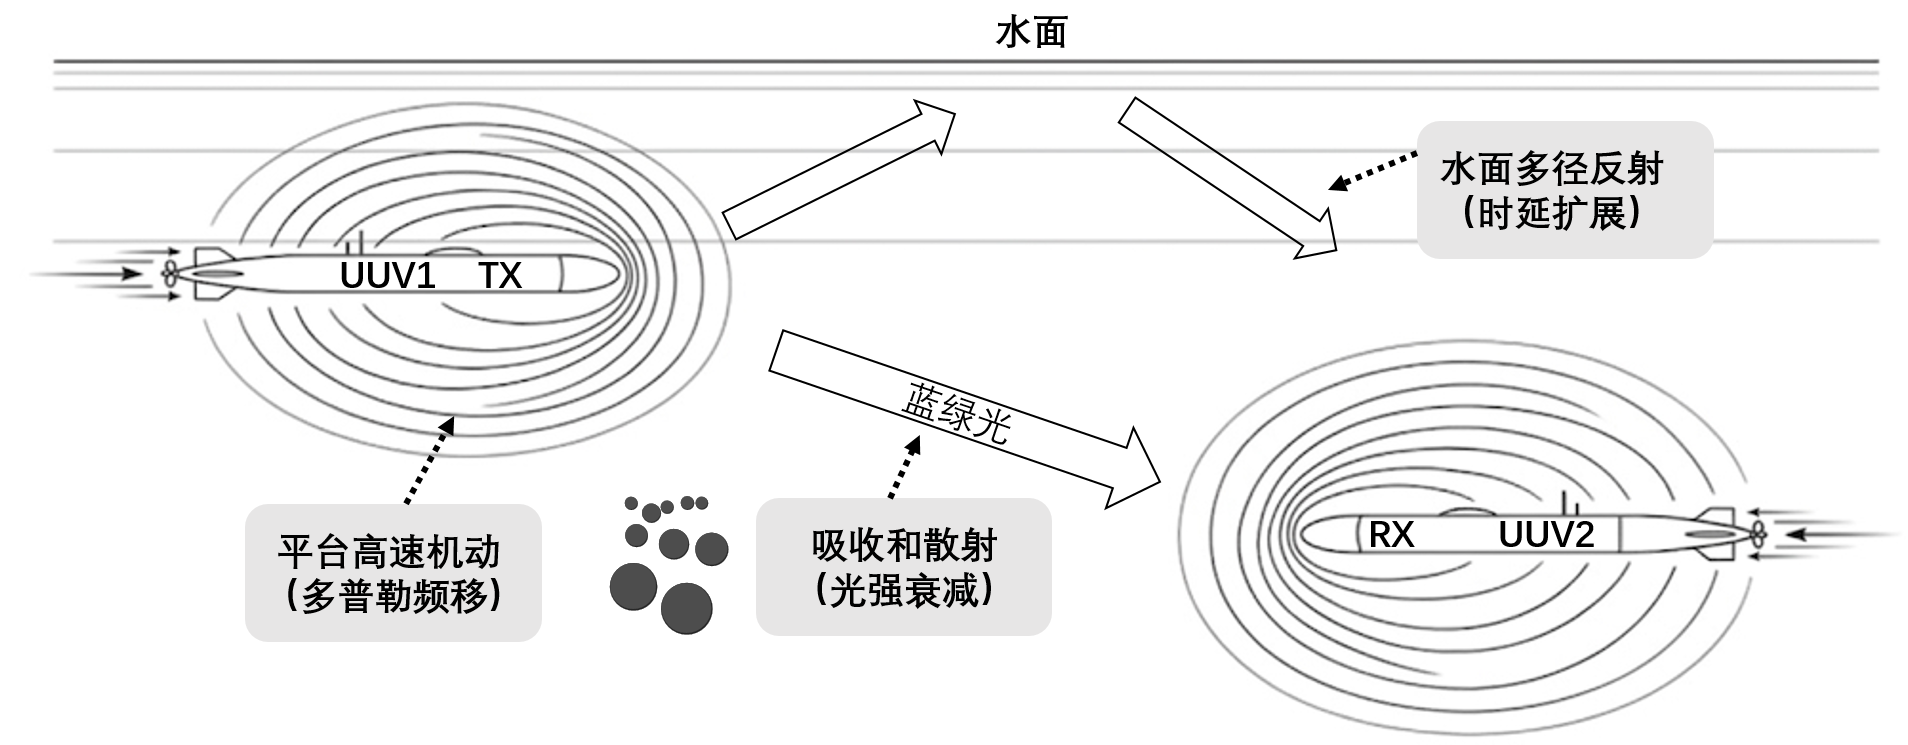
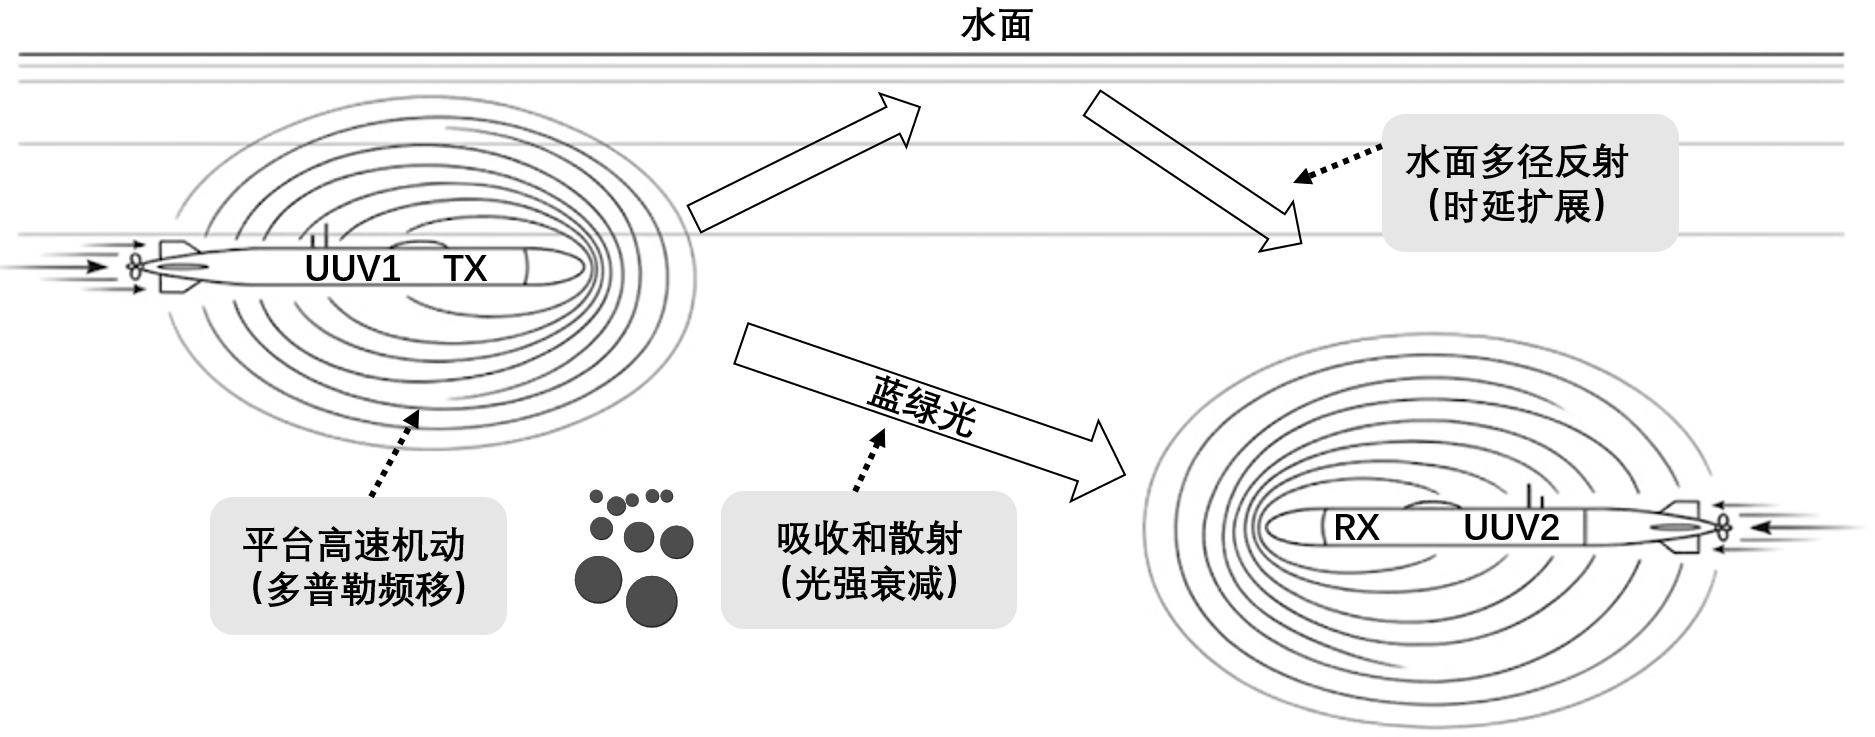
edit_abstract

diff --git a/chapters/abstract.tex b/chapters/abstract.tex
@@ -4,24 +4,25 @@
 %%
 
 \begin{abstract}
-  为满足海洋信息网络和空天地海一体化体系中日益增长的水下信息传输需求，水下无线光通信因其高带宽、低时延等优势，已成为近距离高速水下链路的重要研究方向。然而，不同水下传播场景下的主导失真机制差异显著：在低动态浑浊环境中，多重散射和非视距传播容易引起时延扩展与频率选择性衰落；在高动态移动环境中，平台相对运动又会进一步带来多普勒扩展以及相干接收条件下的相位噪声问题。针对传统正交频分复用（Orthogonal Frequency Division Multiplexing，OFDM）体制在上述场景中适应性不足的问题，本文围绕水下无线光通信中的仿射频分复用（Affine Frequency Division Multiplexing，AFDM）技术开展研究，重点面向低动态浑浊多径场景和高动态移动场景设计两类具有针对性的传输方案。
+  为满足海洋信息网络和空天地海一体化体系中日益增长的水下信息传输需求，本文围绕水下无线光通信在低动态浑浊多径场景和高动态移动场景中的可靠传输问题开展研究。针对不同传播条件下主导失真机制差异显著、传统正交频分复用方案适应性不足的问题，本文以仿射频分复用为统一技术主线，对波形构造、参数设计和检测方法进行了系统研究。本文主要工作与结果如下：
 
-  针对低动态水下场景中由多重散射引起的时延扩展与频率选择性衰落问题，本文提出一种面向强度调制/直接检测（Intensity Modulation/Direct Detection，IM-DD）架构的非对称限幅光仿射频分复用（Asymmetrically Clipped Optical AFDM，ACO-AFDM）传输方案。该方案将 ACO 机制与 AFDM 波形相结合，通过奇数子载波映射、厄米特对称构造与非对称限幅，在满足非负实信号约束的基础上增强系统对多径传播的适应能力；同时，分析了余弦型离散仿射傅里叶变换（Discrete Affine Fourier Transform，DAFT）核下的参数设计条件，给出了兼顾逆变换稳定性与多径分离能力的啁啾参数设计准则。仿真结果表明，所提方案在低动态多径条件下相较传统光正交频分复用方案具有更好的误码率性能和多径鲁棒性。
+  （1）针对低动态浑浊多径场景中传统光正交频分复用在非负实信号约束下对时延扩展和频率选择性衰落适应性不足的问题，提出面向强度调制直接检测架构的非对称限幅光仿射频分复用方案。该方案改善了传统方案对多径传播和深衰落位置的敏感性，提升了误码率性能与多径鲁棒性；仿真结果表明，在双径条件下相较非对称限幅光正交频分复用约获得 2 分贝增益，在路径数由 2 增至 10 时性能退化更缓。
 
-  针对高动态水下场景中相对运动引起的多普勒扩展以及相干架构下的相位噪声影响，本文提出一种面向相干接收的 AFDM 索引调制传输方案。该方案建立了包含多径、多普勒频移和维纳相位噪声的系统模型，推导了离散仿射傅里叶变换域的等效输入输出关系，并进一步利用 AFDM-IM 未激活位置所形成的静默结构作为隐式参考，构造基于泄露能量最小化与稀疏度量驱动的盲搜方法，在无额外导频开销下精准补偿主导的残余载波频偏，同时对维纳相位噪声实现鲁棒容忍。仿真结果表明，所提方案在高动态条件下较基准 OFDM-IM 方案具有更优的误码率性能，并在一定激光器线宽范围内表现出较好的相位噪声鲁棒性。
+  （2）针对高动态移动场景中多普勒扩展和相位噪声共同作用下传统方案频偏失配严重的问题，提出面向相干接收的仿射频分复用索引调制方案，并利用静默位置构造残余频偏补偿方法。该方法改善了高动态条件下主导频偏难以低开销补偿的问题，提升了系统在多普勒扩展和激光器线宽扰动下的检测可靠性；仿真结果表明，所提方案在归一化多普勒频移 0 至 0.20 的范围内保持可靠通信，并在高动态条件下优于传统索引调制方案。
 
-  综上，本文围绕低动态与高动态两类典型水下场景，研究了 AFDM 在水下无线光通信中的波形构造、参数设计与检测方法，说明了 AFDM 面向不同动态条件进行场景化适配的可行性，可为高可靠水下光通信系统设计提供理论参考。
-\end{abstract} 
+  （3）与传统显式导频补偿方案相比，所提方法无需额外导频开销，改善了有效频谱利用率和能量分配效率，避免了 20\% 导频占用带来的约 0.97 分贝等效信噪比损失。
+  总体而言，本文形成了面向低动态与高动态两类典型场景的统一设计主线，可为高可靠水下光通信系统设计提供理论参考。 
+\end{abstract}
 
 % 如需手动控制换行连字符位置，可写 aa\-bb，详见
 % https://bithesis.bitnp.net/faq/hyphen.html
 
 \begin{abstractEn}
-  To meet the demand for underwater information transmission in marine information networks and space-air-ground-sea integrated systems, underwater wireless optical communication (UWOC) has become an important solution for short-range and high-rate underwater links due to its high bandwidth and low latency. However, the dominant impairment mechanisms vary significantly across different underwater propagation scenarios. In low-dynamic turbid environments, multiple scattering and non-line-of-sight propagation mainly cause delay spread and frequency-selective fading. In high-dynamic mobile environments, platform motion further introduces Doppler spread and phase noise under coherent reception. To address the limited adaptability of conventional orthogonal frequency division multiplexing (OFDM) in these scenarios, this thesis investigates affine frequency division multiplexing (AFDM) for UWOC and develops two dedicated transmission schemes for representative low-dynamic turbid multipath scenarios and high-dynamic mobile scenarios.
+  To meet the growing demand for underwater information transmission in marine information networks and integrated space-air-ground-sea systems, this thesis studies reliable transmission for low-dynamic turbid multipath scenarios and high-dynamic mobile scenarios in underwater optical communication. To address the limited adaptability of conventional orthogonal frequency division multiplexing under different dominant impairments, affine frequency division multiplexing is adopted as the unified technical line, and waveform construction, parameter design, and detection methods are investigated systematically. The main improvements and conclusions are as follows:
 
-  For low-dynamic underwater scenarios affected by delay spread and frequency-selective fading caused by multiple scattering, an asymmetrically clipped optical affine frequency division multiplexing (ACO-AFDM) scheme is proposed for intensity modulation/direct detection (IM-DD) systems. By combining the ACO mechanism with the AFDM waveform through odd-subcarrier mapping, Hermitian symmetry, and asymmetric clipping, the proposed scheme improves multipath adaptability while satisfying the nonnegative real-signal constraint. In addition, the parameter design conditions under the cosine-type DAFT kernel are analyzed. A chirp-parameter design criterion is then derived to balance inverse-transform stability and multipath separation capability. Simulation results show that the proposed scheme achieves better bit-error-rate performance and stronger multipath robustness than conventional optical OFDM schemes in low-dynamic multipath conditions.
+  (1) For low-dynamic turbid multipath scenarios, an asymmetrically clipped optical affine frequency division multiplexing scheme is proposed for intensity-modulation direct-detection links. The proposed scheme reduces the sensitivity of conventional optical orthogonal frequency division multiplexing to delay spread, frequency-selective fading, and the nonnegative real-signal constraint, thereby improving bit-error-rate performance and multipath robustness. Simulation results show a gain of about 2 decibels over asymmetrically clipped optical orthogonal frequency division multiplexing under the two-path condition, with slower performance degradation when the number of paths increases from 2 to 10.
 
-  For high-dynamic underwater scenarios affected by Doppler spread due to relative motion and phase noise in coherent architectures, a coherent AFDM with index modulation (AFDM-IM) scheme is proposed. A system model incorporating multipath, Doppler shifts, and Wiener phase noise is established, and the equivalent input--output relationship in the discrete affine Fourier transform domain is derived. By exploiting the silent structure formed by inactive AFDM-IM positions as an implicit reference, a blind-search method driven by leakage-energy minimization and sparsity metrics is developed to accurately compensate the dominant residual carrier frequency offset without any additional pilot overhead, while maintaining robust tolerance to Wiener phase noise. Simulation results show that the proposed scheme outperforms the benchmark OFDM-IM scheme in terms of bit error rate under high-dynamic conditions and exhibits good phase-noise robustness within a practical range of laser linewidths.
+  (2) For high-dynamic mobile scenarios, a coherent transmission scheme based on affine frequency division multiplexing and index modulation is proposed, together with a residual carrier-frequency-offset compensation method constructed from silent positions. The proposed method alleviates severe frequency-offset mismatch under joint Doppler spread and phase-noise disturbances, and improves detection reliability under Doppler variation and laser-linewidth perturbations. Simulation results show reliable communication over normalized Doppler shifts from 0 to 0.20, while achieving better performance than the conventional index-modulation benchmark in high-dynamic conditions.
 
-  In summary, this thesis studies waveform construction, parameter design, and detection methods of AFDM for UWOC from the perspectives of low-dynamic and high-dynamic representative scenarios. The results demonstrate the feasibility of scenario-oriented AFDM adaptation under different mobility conditions and provide theoretical support for the design of reliable underwater optical communication systems.
+  (3) Compared with the conventional pilot-assisted compensation strategy, the proposed method requires no additional pilot overhead, improves effective spectral utilization and power allocation efficiency, and avoids the equivalent signal-to-noise-ratio loss of about 0.97 decibels caused by 20\% pilot occupation. Overall, this thesis establishes a unified scenario-oriented design route for representative low-dynamic and high-dynamic underwater links, and provides theoretical support for reliable underwater optical communication system design.
 \end{abstractEn}

diff --git a/chapters/chapter1.tex b/chapters/chapter1.tex
@@ -10,10 +10,13 @@
 
 为更直观地比较不同水下通信手段的结构性差异，表~\ref{tab:underwater_comm_comparison} 给出了主流水下通信技术在传播介质、速率潜力、时延特征及适用场景等方面的横向对比。该表所体现的结论是：水声、射频与水下光并非简单的替代关系，而是面向不同距离尺度、实时性需求和部署条件的互补性技术路线。
 
-\begin{table}[htbp] 
+\begin{table}[htbp]
     \centering
     \caption{主流水下通信技术特性横向对比表}
     \label{tab:underwater_comm_comparison}
+    \footnotesize
+    \setlength{\tabcolsep}{2.6pt}
+    \resizebox{\textwidth}{!}{%
     \begin{tabular}{p{1.6cm}p{1.7cm}p{1.6cm}p{1.7cm}p{1.6cm}p{2.0cm}p{2.0cm}p{1.9cm}}
         \toprule
         通信方式 & 主要载体/波段 & 典型作用距离 & 可用带宽/速率水平 & 时延特性 & 主要优势 & 主要局限 & 适用场景 \\
@@ -22,7 +25,8 @@
         射频通信 & 电磁波（低频/超低频） & 极短距离 & 带宽有限，速率受限 & 时延较低 & 体制成熟、接口方便 & 海水中衰减极强，常规场景覆盖不足 & 特殊浅水、极短距应急链路 \\
         水下无线光通信 & 蓝绿光窗口 & 短距离至中短距离 & 带宽高，速率潜力大 & 传播时延低 & 低时延、高速率、低截获概率 & 对准敏感，受散射/湍流/浑浊度影响明显 & 近距离高速互联、视频回传、局部宽带组网 \\
         \bottomrule
-    \end{tabular}
+    \end{tabular}%
+    }
 \end{table}
 
 需要指出的是，UWOC 的优势并不意味着其传播环境简单。光波在水中传播时会同时受到吸收、散射、湍流、气泡扰动、环境光噪声以及平台姿态变化的影响，不同机理在不同水体类型、链路距离和收发结构下的主导程度并不相同\cite{kaushalUnderwaterOpticalWireless2016a, zengSurveyUnderwaterOptical2017, zayed2026comprehensive}。从系统设计角度看，真正困难的部分并不是单纯追求更高标称速率，而是在复杂损伤机制下构建与场景特征匹配的调制、检测和补偿方法。若忽略主导失真机制随场景变化而切换的事实，就容易把问题抽象得过于理想化，进而削弱方案的物理针对性。
@@ -96,6 +100,9 @@ AFDM 的潜力并不局限于高动态场景。虽然其最初更多被用于处
     \centering
     \caption{典型水下多载波波形技术演进与关键指标对比表}
     \label{tab:waveform_evolution_comparison}
+    \footnotesize
+    \setlength{\tabcolsep}{2.5pt}
+    \resizebox{\textwidth}{!}{%
     \begin{tabular}{p{1.9cm}p{1.6cm}p{2.1cm}p{1.7cm}p{1.4cm}p{1.4cm}p{1.8cm}p{1.9cm}}
         \toprule
         波形/方案 & 典型接收架构 & 核心结构特征 & 主要适应场景 & 抗多径能力 & 抗多普勒能力 & 频谱/功率效率特点 & 当前局限 \\
@@ -106,7 +113,8 @@ AFDM 的潜力并不局限于高动态场景。虽然其最初更多被用于处
         AFDM-IM & 相干接收/复数域检测 & AFDM 与稀疏激活索引联合设计 & 高动态、高可靠传输 & 较强 & 较强 & 可提升频谱利用方式并降低平均激活能量 & 发送结构与检测算法耦合更强 \\
         相干 AFDM-IM & 相干接收 & AFDM、索引调制与残余 CFO 补偿联合设计 & 高动态 UWOC 场景 & 较强 & 很强 & 在保持有效数据维度的同时提升高动态鲁棒性 & 需处理相位噪声、频偏估计与实现复杂度问题 \\
         \bottomrule
-    \end{tabular}
+    \end{tabular}%
+    }
 \end{table}
 
 \section{本文主要研究内容与章节安排}

diff --git a/chapters/chapter3.tex b/chapters/chapter3.tex
@@ -265,7 +265,7 @@ AFDM 的性能在较大程度上取决于啁啾参数设计。对于本文所提
     \{ \mathrm{loc}_i, \mathrm{loc}_i^{\prime} \} \cap \{ \mathrm{loc}_j, \mathrm{loc}_j^{\prime} \} = \emptyset
 \end{equation}
 若最大时延扩展为 $l_{\max}$，则为保证全部偏移范围不超过 DAFT 域长度 $N$，应满足
-\begin{equation}
+\begin{equation} 
     4N c_1 l_{\max} \leq N
 \end{equation}
 由此得到参数边界
@@ -344,6 +344,9 @@ SNR 定义 & — & $E_b/N_0$ \\
 \centering
 \caption{低动态 IM-DD 多载波方案特性对比表}
 \label{tab:low_dynamic_scheme_comparison}
+\footnotesize
+\setlength{\tabcolsep}{2.8pt}
+\resizebox{\textwidth}{!}{%
 \begin{tabular}{p{1.8cm}p{2.4cm}p{1.6cm}p{1.6cm}p{1.7cm}p{1.7cm}p{2.0cm}}
 \toprule
 方案 & 非负约束实现方式 & 光功率效率 & 频谱效率 & 多径鲁棒性 & 接收复杂度 & 适用说明 \\
@@ -353,7 +356,8 @@ ACO-OFDM & 奇数子载波映射 + 非对称限幅 & 高 & 中等 & 中等 & 中
 U-OFDM & 正负半轴分帧发送形成单极性信号 & 中等 & 较低 & 中等偏弱 & 中等 & 结构较直观，但资源利用率受分帧方式制约 \\
 DCO-OFDM & 直流偏置 + 全子载波调制 & 较低 & 较高 & 中等偏弱 & 较低 & 适合频谱效率优先但可接受偏置功耗的场景 \\
 \bottomrule
-\end{tabular}
+\end{tabular}%
+}
 \end{table}
 
 \begin{figure}[htbp]